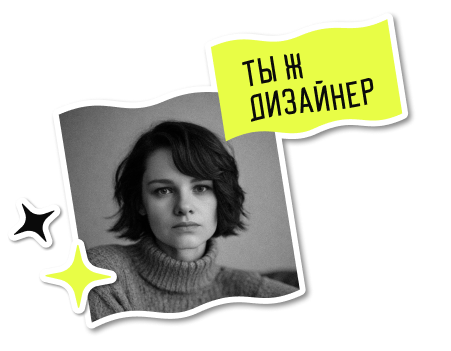
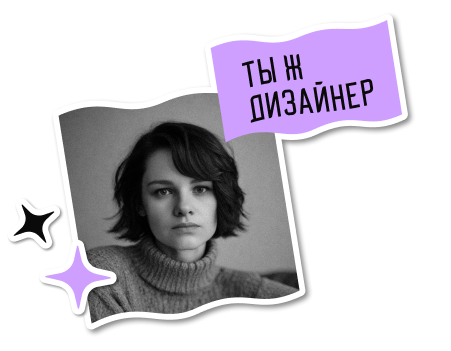
3-28.10.2023-цвет

diff --git a/style/css/style.css b/style/css/style.css
@@ -183,7 +183,7 @@ p {
   margin: 0 2.5% 0 2.5%;
   display: flex;
   align-items: center;
-  background: #E8FD46;
+  background: #CE9FFF;
   overflow: hidden; }
 
 .marquee1::after {
@@ -345,7 +345,7 @@ p {
   border-radius: 27px;
   box-shadow: 0px 3px 4px 0px rgba(10, 10, 10, 0.6); }
   .button:hover {
-    background-color: #E8FD46;
+    background-color: #CE9FFF;
     box-shadow: 0px 2px 6px 0px rgba(10, 10, 10, 0.8); }
 
 .btn-arrow {

diff --git a/style/scss/1_desctop-1920/helpers/_variables.scss b/style/scss/1_desctop-1920/helpers/_variables.scss
@@ -23,7 +23,8 @@ $name-1: rgba(0, 42, 143, 0.67);
 
 // ///////////////////
 $body-bg: #FCFCFC;
-$color-yellow: #E8FD46;
+$color-yellow1: #E8FD46;
+$color-yellow: #CE9FFF;
 $color-dark: #0A0A0A;
 
 
